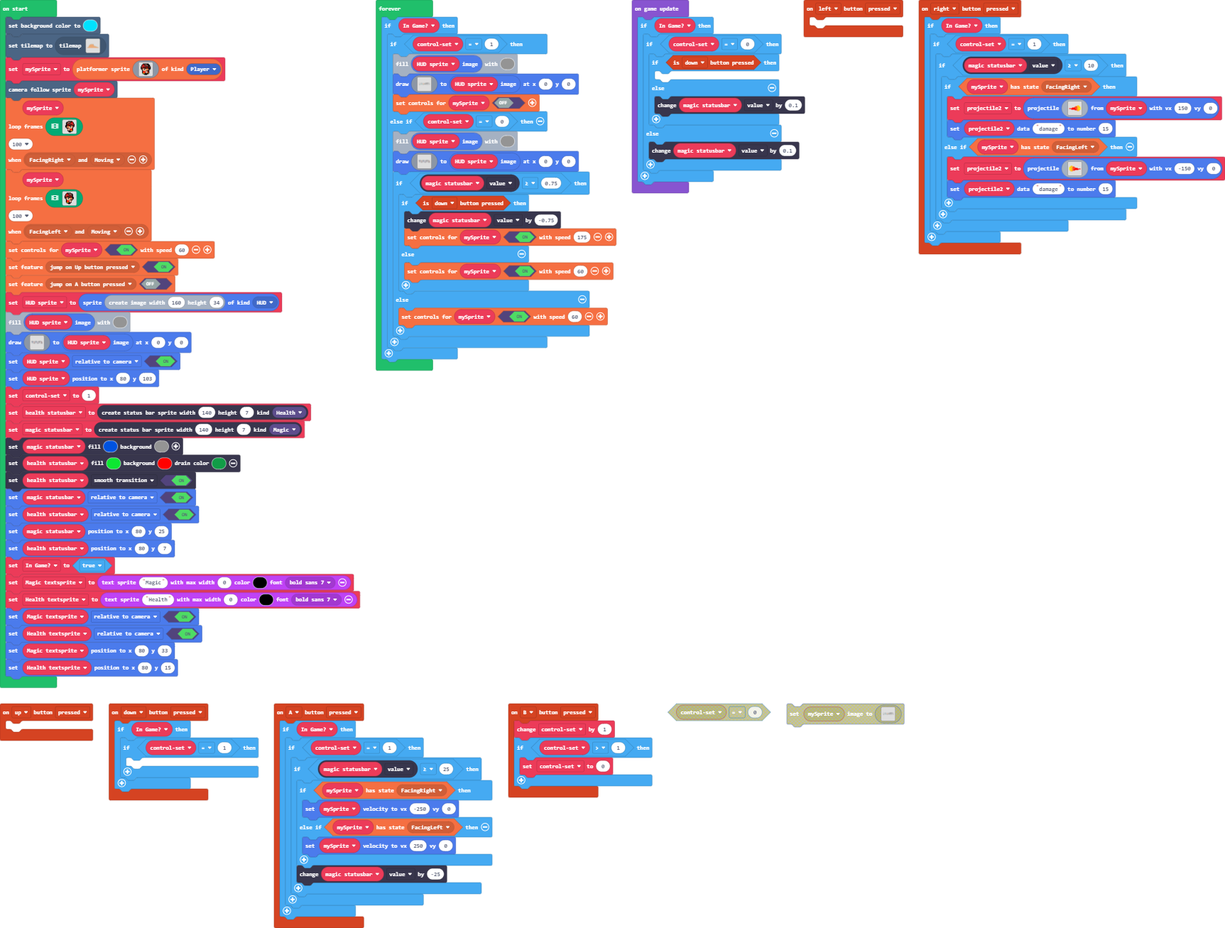
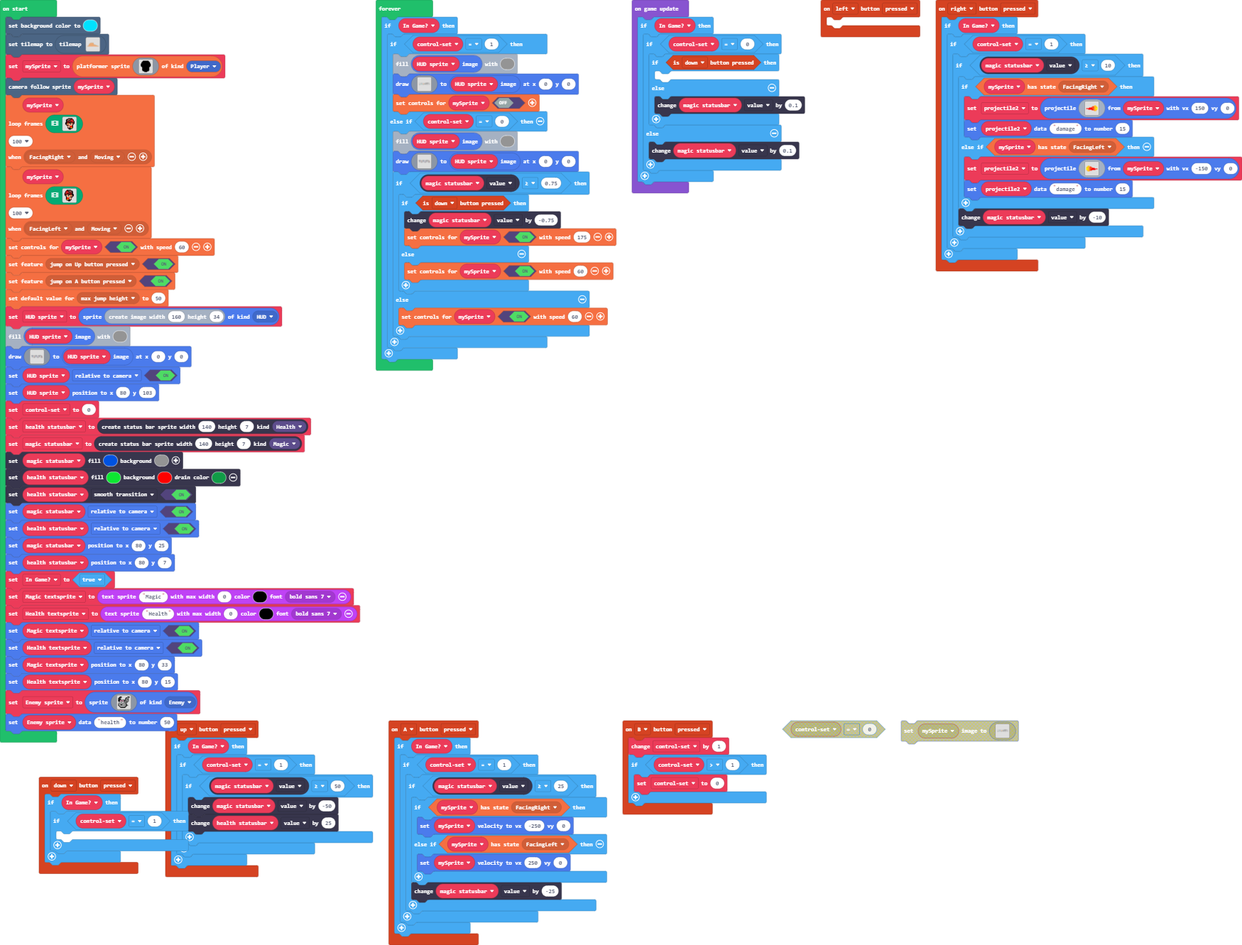
started working on the healing mechanic

Changed region(s): [[0.0, 0.0, 0.8296, 1.0], [0.2765, 0.0, 0.6759, 0.3979], [0.6452, 0.0, 1.0, 0.306]]

diff --git a/tilemap.g.ts b/tilemap.g.ts
@@ -24,8 +24,27 @@ namespace myTiles {
 2 2 2 2 2 2 2 2 2 2 2 2 2 2 2 2 
 2 2 2 2 2 2 2 2 2 2 2 2 2 2 2 2 
 `, [myTiles.transparency16,grafxkid.springGroundTop,grafxkid.springGround,grafxkid.springGroundTopRight,grafxkid.springGroundTopLeft,grafxkid.springGroundInnerBottomRight,grafxkid.springGroundInnerBottomLeft,grafxkid.springGroundLeft,grafxkid.springGroundRight], TileScale.Sixteen);
+            case "level3":
+            case "level3":return tiles.createTilemap(hex`1000100000000000000000000000000000000000000000000000000000000000000000000000000000000000000000000000000000000000000000000000000000000000000000000000000000000000000000000000000000000000000000000000000000000000000000000000000000000000000000000000000000000000000000000000000000000000000000000000000000000000000000000000000000000000000000000000000000000000000000000000000000000000000000000000000000000000000000000000000000000000000000000000000000000000000000000000000000000000000000000000000000000000000000000000000000000000`, img`
+. . . . . . . . . . . . . . . . 
+. . . . . . . . . . . . . . . . 
+. . . . . . . . . . . . . . . . 
+. . . . . . . . . . . . . . . . 
+. . . . . . . . . . . . . . . . 
+. . . . . . . . . . . . . . . . 
+. . . . . . . . . . . . . . . . 
+. . . . . . . . . . . . . . . . 
+. . . . . . . . . . . . . . . . 
+. . . . . . . . . . . . . . . . 
+. . . . . . . . . . . . . . . . 
+. . . . . . . . . . . . . . . . 
+. . . . . . . . . . . . . . . . 
+. . . . . . . . . . . . . . . . 
+. . . . . . . . . . . . . . . . 
+. . . . . . . . . . . . . . . . 
+`, [myTiles.transparency16], TileScale.Sixteen);
             case "level":
-            case "level1":return tiles.createTilemap(hex`78003000000000000000000000000000000000000000000000000000000000000000000000000000000000000000000000000000000000000000000000000000000000000000000000000000000000000000000000000000000000000000000000000000000000000000000000000000000000000000000000000000000000000000000000000000000000000000000000000000000000000000000000000000000000000000000000000000000000000000000000000000000000000000000000000000000000000000000000000000000000000000000000000000000000000000000000000000000000000000000000000000000000000000000000000000000000000000000000000000000000000000000000000000000000000000000000000000000000000000000000000000000000000000000000000000000000000000000000000000000000000000000000000000000000000000000000000000000000000000000000000000000000000000000000000000000000000000000000000000000000000000000000000000000000000000000000000000000000000000000000000000000000000000000000000000000000000000000000000000000000000000000000000000000000000000000000000000000000000000000000000000000000000000000000000000000000000000000000000000000000000000000000000000000000000000000000000000000000000000000000000000000000000000000000000000000000000000000000000000000000000000000000000000000000000000000000000000000000000000000000000000000000000000000000000000000000000000000000000000000000000000000000000000000000000000000000000000000000000000000000000000000000000000000000000000000000000000000000000000000000000000000000000000000000000000000000000000000000000000000000000000000000000000000000000000000000000000000000000000000000000000000000000000000000000000000000000000000000000000000000000000000000000000000000000000000000000000000000000000000000000000000000000000000000000000000000000000000000000000000000000000000000000000000000000000000000000000000000000000000000000000000000000000000000000000000000000000000000000000000000000000000000000000000000000000000000000000000000000000000000000000000000000000000000000000000000000000000000000000000000000000000000000000000000000000000000000000000000000000000000000000000000000000000000000000000000000000000000000000000000000000000000000000000000000000000000000000000000000000000000000000000000000000000000000000000000000000000000000000000000000000000000000000000000000000000000000000000000000000000000000000000000000000000000000000000000000000000000000000000000000000000000000000000000000000000000000000000000000000000000000000000000000000000000000000000000000000000000000000000000000000000000000000000000000000000000000000000000000000000000000000000000000003010101010101010101010101010101010101010101010101010101010106000000000000000000000000000000000000000000000000000000000000000000000000000000000000000000000000000000000000000000000000000000000000000000000000000000000000000000000000000000000308020202020202020202020202020202020202020202020202020202020207060000000000000000000000000000000000000000000000000000000000000000000000000000000000000000000000000000000000000000000000000000000000000000000000000000000000000000000000000003010802020202020202020202020202020202020202020202020202020202020202050000000000000000000000000000000000000000000000000000000000000000000000000000000000000000000000000000000000000000000000000000000000000000000000000000000000000000000000000308020202020202020202020202020202020202020202020202020202020202020202050000000000000000000000000000000000000000000000000000000000000000000000000000000000000000000000000000000000000000000000000000000000000000000000000000000000000000000000030802020202020202020202020202020202020202020202020202020202020202020202050000000000000000000000000000000000000000000000000000000000000000000000000000000000000000000000000000000000000000000000000000000000000000000000000000000000000000000003080202020202020202020202020202020202020202020202020202020202020202020202070600000000000000000000000000000000000000000000000000000000000000000000000000000000000000000000000000000000000000000000000000000000000000000000000000000000000000030108020202020202020202020202020202020202020202020202020202020202020202020202020500000000000000000000000000000000000000000000000000000000000000000000000000000000000000000000000000000000000000000000000000000000000000000000000000000000000003080202020202020202020202020202020202020202020202020202020202020202020202020202020500000000000000000000000000000000000000000000000000000000000000000000000000000000000000000000000000000000000000000000000000000000000000000000000000000000000308020202020202020202020202020202020202020202020202020202020202020202020202020202020500000000000000000000000000000000000000000000000000000000000000000000000000000000000000000000000000000000000000000000000000000000000000000000000000000003010802020202020202020202020202020202020202020202020202020202020202020202020202020202020706000000000000000000000000000000000000000000000000000000000000000000000000000000000000000000000000000000000000000000000000000000000000000000000000000308020202020202020202020202020202020202020202020202020202020202020202020202020202020202020205000000000000000000000000000000000000000000000000000000000000000000000000000000000000000000000000000000000000000000000000000000000000000000000000030802020202020202020202020202020202020202020202020202020202020202020202020202020202020202020205000000000000000000000000000000000000000000000000000000000000000000000000000000000000000000000000000000000000000000000000000000000000000000000003080202020202020202020202020202020202020202020202020202020202020202020202020202020202020202020207060000000000000000000000000000000000000000000000000000000000000000000000000000000000000000000000000000000000000000000000000000000000000000000004020202020202020202020202020202020202020202020202020202020202020202020202020202020202020202020202050000000000000000000000000000000000000000000000000000000000000000000000000000000000000000000000000000000000000000000000000000000000000000000308020202020202020202020202020202020202020202020202020202020202020202020202020202020202020202020202050000000000000000000000000000000000000000000000000000000000000000000000000000000000000000000000000000000000000000000000000000000000000000000402020202020202020202020202020202020202020202020202020202020202020202020202020202020202020202020202050000000000000000000000000000000000000000000000000000000000000000000000000000000000000000000000000000000000000000000000000000000000000000000402020202020202020202020202020202020202020202020202020202020202020202020202020202020202020202020202070600000000000000000000000000000000000000000000000000000000000000000000000000000000000000000000000000000000000000000000000000000000000000030802020202020202020202020202020202020202020202020202020202020202020202020202020202020202020202020202020500000000000000000000000000000000000000000000000000000000000000000000000000000000000000000000000000000000000000000000000000000000000000040202020202020202020202020202020202020202020202020202020202020202020202020202020202020202020202020202020500000000000000000000000000000000000000000000000000000000000000000000000000000000000000000000000000000000000000000000000000000000000003080202020202020202020202020202020202020202020202020202020202020202020202020202020202020202020202020202020500000000000000000000000000000000000000000000000000000000000000000000000000000000000000000000000000000000000000000000000000000000000004020202020202020202020202020202020202020202020202020202020202020202020202020202020202020202020202020202020701010101010101010101010106000000000000000000000000000000000000000000000000000000000000000000000000000000000000000000000000000000000308020202020202020202020202020202020202020202020202020202020202020202020202020202020202020202020202020202020202020202020202020202020207010600000000000000000000000000000000000000000000000000000000000000000000000000000000000000000000000000000402020202020202020202020202020202020202020202020202020202020202020202020202020202020202020202020202020202020202020202020202020202020202020701060000000000000000000000000000000000000000000000000000000000000000000000000000000000000000000000000402020202020202020202020202020202020202020202020202020202020202020202020202020202020202020202020202020202020202020202020202020202020202020202070101060000000000000000000000000000000000000000000000000000000000000000000000000000000000000000030802020202020202020202020202020202020202020202020202020202020202020202020202020202020202020202020202020202020202020202020202020202020202020202020202070106000000000000000000000000000000000000000000000000000000000000000000000000000000000000040202020202020202020202020202020202020202020202020202020202020202020202020202020202020202020202020202020202020202020202020202020202020202020202020202020207010106000000000000000000000000000000000000000000000000000000000000000000000000000003080202020202020202020202020202020202020202020202020202020202020202020202020202020202020202020202020202020202020202020202020202020202020202020202020202020202020207010600000000000000000000000000000000000000000000000000000000000000000000000004020202020202020202020202020202020202020202020202020202020202020202020202020202020202020202020202020202020202020202020202020202020202020202020202020202020202020202020701060000000000000000000000000000000000000000000000000000000000000000000308020202020202020202020202020202020202020202020202020202020202020202020202020202020202020202020202020202020202020202020202020202020202020202020202020202020202020202020202070101060000000000000000000000000000000000000000000000000000000000000402020202020202020202020202020202020202020202020202020202020202020202020202020202020202020202020202020202020202020202020202020202020202020202020202020202020202020202020202020202070106000000000000000000000000000000000000000000000000000000000402020202020202020202020202020202020202020202020202020202020202020202020202020202020202020202020202020202020202020202020202020202020202020202020202020202020202020202020202020202020207010106000000000000000000000000000000000000000000000000030802020202020202020202020202020202020202020202020202020202020202020202020202020202020202020202020202020202020202020202020202020202020202020202020202020202020202020202020202020202020202020207010600000000000000000000010101010101010101010101080202020202020202020202020202020202020202020202020202020202020202020202020202020202020202020202020202020202020202020202020202020202020202020202020202020202020202020202020202020202020202020202020701010101010101010101020202020202020202020202020202020202020202020202020202020202020202020202020202020202020202020202020202020202020202020202020202020202020202020202020202020202020202020202020202020202020202020202020202020202020202020202020202020202020202020202020202020202020202020202020202020202020202020202020202020202020202020202020202020202020202020202020202020202020202020202020202020202020202020202020202020202020202020202020202020202020202020202020202020202020202020202020202020202020202020202020202020202020202020202020202020202020202020202020202020202020202020202020202020202020202020202020202020202020202020202020202020202020202020202020202020202020202020202020202020202020202020202020202020202020202020202020202020202020202020202020202020202020202020202020202020202020202020202020202020202020202020202020202020202020202020202020202020202020202020202020202020202020202020202020202020202020202020202020202020202020202020202020202020202020202020202020202020202020202020202020202020202020202020202020202020202020202020202020202020202020202020202020202020202020202020202020202020202020202020202020202020202020202020202020202020202020202020202020202020202020202020202020202020202020202020202020202020202020202020202`, img`
+            case "level1":return tiles.createTilemap(hex`78003000000000000000000000000000000000000000000000000000000000000000000000000000000000000000000000000000000000000000000000000000000000000000000000000000000000000000000000000000000000000000000000000000000000000000000000000000000000000000000000000000000000000000000000000000000000000000000000000000000000000000000000000000000000000000000000000000000000000000000000000000000000000000000000000000000000000000000000000000000000000000000000000000000000000000000000000000000000000000000000000000000000000000000000000000000000000000000000000000000000000000000000000000000000000000000000000000000000000000000000000000000000000000000000000000000000000000000000000000000000000000000000000000000000000000000000000000000000000000000000000000000000000000000000000000000000000000000000000000000000000000000000000000000000000000000000000000000000000000000000000000000000000000000000000000000000000000000000000000000000000000000000000000000000000000000000000000000000000000000000000000000000000000000000000000000000000000000000000000000000000000000000000000000000000000000000000000000000000000000000000000000000000000000000000000000000000000000000000000000000000000000000000000000000000000000000000000000000000000000000000000000000000000000000000000000000000000000000000000000000000000000000000000000000000000000000000000000000000000000000000000000000000000000000000000000000000000000000000000000000000000000000000000000000000000000000000000000000000000000000000000000000000000000000000000000000000000000000000000000000000000000000000000000000000000000000000000000000000000000000000000000000000000000000000000000000000000000000000000000000000000000000000000000000000000000000000000000000000000000000000000000000000000000000000000000000000000000000000000000000000000000000000000000000000000000000000000000000000000000000000000000000000000000000000000000000000000000000000000000000000000000000000000000000000000000000000000000000000000000000000000000000000000000000000000000000000000000000000000000000000000000000000000000000000000000000000000000000000000000000000000000000000000000000000000000000000000000000000000000000000000000000000000000000000000000000000000000000000000000000000000000000000000000000000000000000000000000000000000000000000000000000000000000000000000000000000000000000000000000000000000000000000000000000000000000000000000000000000000000000000000000000000000000000000000000000000000000000000000000000000000000000000000000000000000000000000000000000000000000000000000000000000003010101010101010101010101010101010101010101010101010101010600000000000000000000000000000000000000000000000000000000000000000000000000000000000000000000000000000000000000000000000000000000000000000000000000000000000000000000000000000000000308020202020202020202020202020202020202020202020202020202020500000000000000000000000000000000000000000000000000000000000000000000000000000000000000000000000000000000000000000000000000000000000000000000000000000000000000000000000000000003010802020202020202020202020202020202020202020202020202020202020706000000000000000000000000000000000000000000000000000000000000000000000000000000000000000000000000000000000000000000000000000000000000000000000000000000000000000000000000000308020202020202020202020202020202020202020202020202020202020202020205000000000000000000000000000000000000000000000000000000000000000000000000000000000000000000000000000000000000000000000000000000000000000000000000000000000000000000000000030802020202020202020202020202020202020202020202020202020202020202020205000000000000000000000000000000000000000000000000000000000000000000000000000000000000000000000000000000000000000000000000000000000000000000000000000000000000000000000003080202020202020202020202020202020202020202020202020202020202020202020207060000000000000000000000000000000000000000000000000000000000000000000000000000000000000000000000000000000000000000000000000000000000000000000000000000000000000000030108020202020202020202020202020202020202020202020202020202020202020202020202050000000000000000000000000000000000000000000000000000000000000000000000000000000000000000000000000000000000000000000000000000000000000000000000000000000000000003080202020202020202020202020202020202020202020202020202020202020202020202020202050000000000000000000000000000000000000000000000000000000000000000000000000000000000000000000000000000000000000000000000000000000000000000000000000000000000000308020202020202020202020202020202020202020202020202020202020202020202020202020202070600000000000000000000000000000000000000000000000000000000000000000000000000000000000000000000000000000000000000000000000000000000000000000000000000000003010802020202020202020202020202020202020202020202020202020202020202020202020202020202020500000000000000000000000000000000000000000000000000000000000000000000000000000000000000000000000000000000000000000000000000000000000000000000000000000308020202020202020202020202020202020202020202020202020202020202020202020202020202020202020500000000000000000000000000000000000000000000000000000000000000000000000000000000000000000000000000000000000000000000000000000000000000000000000000030802020202020202020202020202020202020202020202020202020202020202020202020202020202020202020706000000000000000000000000000000000000000000000000000000000000000000000000000000000000000000000000000000000000000000000000000000000000000000000003080202020202020202020202020202020202020202020202020202020202020202020202020202020202020202020205000000000000000000000000000000000000000000000000000000000000000000000000000000000000000000000000000000000000000000000000000000000000000000000004020202020202020202020202020202020202020202020202020202020202020202020202020202020202020202020205000000000000000000000000000000000000000000000000000000000000000000000000000000000000000000000000000000000000000000000000000000000000000000000308020202020202020202020202020202020202020202020202020202020202020202020202020202020202020202020207060000000000000000000000000000000000000000000000000000000000000000000000000000000000000000000000000000000000000000000000000000000000000000000402020202020202020202020202020202020202020202020202020202020202020202020202020202020202020202020202050000000000000000000000000000000000000000000000000000000000000000000000000000000000000000000000000000000000000000000000000000000000000000000402020202020202020202020202020202020202020202020202020202020202020202020202020202020202020202020202050000000000000000000000000000000000000000000000000000000000000000000000000000000000000000000000000000000000000000000000000000000000000000030802020202020202020202020202020202020202020202020202020202020202020202020202020202020202020202020202070600000000000000000000000000000000000000000000000000000000000000000000000000000000000000000000000000000000000000000000000000000000000000040202020202020202020202020202020202020202020202020202020202020202020202020202020202020202020202020202020500000000000000000000000000000000000000000000000000000000000000000000000000000000000000000000000000000000000000000000000000000000000003080202020202020202020202020202020202020202020202020202020202020202020202020202020202020202020202020202020500000000000000000000000000000000000000000000000000000000000000000000000000000000000000000000000000000000000000000000000000000000000004020202020202020202020202020202020202020202020202020202020202020202020202020202020202020202020202020202020701010101010101010101010106000000000000000000000000000000000000000000000000000000000000000000000000000000000000000000000000000000000308020202020202020202020202020202020202020202020202020202020202020202020202020202020202020202020202020202020202020202020202020202020207010600000000000000000000000000000000000000000000000000000000000000000000000000000000000000000000000000000402020202020202020202020202020202020202020202020202020202020202020202020202020202020202020202020202020202020202020202020202020202020202020701060000000000000000000000000000000000000000000000000000000000000000000000000000000000000000000000000402020202020202020202020202020202020202020202020202020202020202020202020202020202020202020202020202020202020202020202020202020202020202020202070101060000000000000000000000000000000000000000000000000000000000000000000000000000000000000000030802020202020202020202020202020202020202020202020202020202020202020202020202020202020202020202020202020202020202020202020202020202020202020202020202070106000000000000000000000000000000000000000000000000000000000000000000000000000000000000040202020202020202020202020202020202020202020202020202020202020202020202020202020202020202020202020202020202020202020202020202020202020202020202020202020207010106000000000000000000000000000000000000000000000000000000000000000000000000000003080202020202020202020202020202020202020202020202020202020202020202020202020202020202020202020202020202020202020202020202020202020202020202020202020202020202020207010600000000000000000000000000000000000000000000000000000000000000000000000004020202020202020202020202020202020202020202020202020202020202020202020202020202020202020202020202020202020202020202020202020202020202020202020202020202020202020202020701060000000000000000000000000000000000000000000000000000000000000000000308020202020202020202020202020202020202020202020202020202020202020202020202020202020202020202020202020202020202020202020202020202020202020202020202020202020202020202020202070101060000000000000000000000000000000000000000000000000000000000000402020202020202020202020202020202020202020202020202020202020202020202020202020202020202020202020202020202020202020202020202020202020202020202020202020202020202020202020202020202070106000000000000000000000000000000000000000000000000000000000402020202020202020202020202020202020202020202020202020202020202020202020202020202020202020202020202020202020202020202020202020202020202020202020202020202020202020202020202020202020207010106000000000000000000000000000000000000000000000000030802020202020202020202020202020202020202020202020202020202020202020202020202020202020202020202020202020202020202020202020202020202020202020202020202020202020202020202020202020202020202020207010600000000000000000000010101010101010101010101080202020202020202020202020202020202020202020202020202020202020202020202020202020202020202020202020202020202020202020202020202020202020202020202020202020202020202020202020202020202020202020202020701010101010101010101020202020202020202020202020202020202020202020202020202020202020202020202020202020202020202020202020202020202020202020202020202020202020202020202020202020202020202020202020202020202020202020202020202020202020202020202020202020202020202020202020202020202020202020202020202020202020202020202020202020202020202020202020202020202020202020202020202020202020202020202020202020202020202020202020202020202020202020202020202020202020202020202020202020202020202020202020202020202020202020202020202020202020202020202020202020202020202020202020202020202020202020202020202020202020202020202020202020202020202020202020202020202020202020202020202020202020202020202020202020202020202020202020202020202020202020202020202020202020202020202020202020202020202020202020202020202020202020202020202020202020202020202020202020202020202020202020202020202020202020202020202020202020202020202020202020202020202020202020202020202020202020202020202020202020202020202020202020202020202020202020202020202020202020202020202020202020202020202020202020202020202020202020202020202020202020202020202020202020202020202020202020202020202020202020202020202020202020202020202020202020202020202020202020202020202020202020202020202020202020202`, img`
 ........................................................................................................................
 ........................................................................................................................
 ........................................................................................................................
@@ -36,23 +55,23 @@ namespace myTiles {
 ........................................................................................................................
 ........................................................................................................................
 ........................................................................................................................
-...................................2222222222222222222222222222222......................................................
-..................................222222222222222222222222222222222.....................................................
-................................22222222222222222222222222222222222.....................................................
-...............................222222222222222222222222222222222222.....................................................
-..............................2222222222222222222222222222222222222.....................................................
-.............................222222222222222222222222222222222222222....................................................
-...........................22222222222222222222222222222222222222222....................................................
-..........................222222222222222222222222222222222222222222....................................................
+...................................222222222222222222222222222222.......................................................
+..................................2222222222222222222222222222222.......................................................
+................................2222222222222222222222222222222222......................................................
+...............................22222222222222222222222222222222222......................................................
+..............................222222222222222222222222222222222222......................................................
+.............................22222222222222222222222222222222222222.....................................................
+...........................2222222222222222222222222222222222222222.....................................................
+..........................22222222222222222222222222222222222222222.....................................................
 .........................2222222222222222222222222222222222222222222....................................................
-.......................2222222222222222222222222222222222222222222222...................................................
-......................22222222222222222222222222222222222222222222222...................................................
+.......................222222222222222222222222222222222222222222222....................................................
+......................2222222222222222222222222222222222222222222222....................................................
 .....................222222222222222222222222222222222222222222222222...................................................
-....................22222222222222222222222222222222222222222222222222..................................................
-....................22222222222222222222222222222222222222222222222222..................................................
+....................2222222222222222222222222222222222222222222222222...................................................
+....................2222222222222222222222222222222222222222222222222...................................................
 ...................222222222222222222222222222222222222222222222222222..................................................
 ...................222222222222222222222222222222222222222222222222222..................................................
-...................2222222222222222222222222222222222222222222222222222.................................................
+...................222222222222222222222222222222222222222222222222222..................................................
 ..................22222222222222222222222222222222222222222222222222222.................................................
 ..................22222222222222222222222222222222222222222222222222222.................................................
 .................222222222222222222222222222222222222222222222222222222.................................................

diff --git a/main.ts b/main.ts
@@ -2,7 +2,14 @@ namespace SpriteKind {
     export const HUD = SpriteKind.create()
 }
 controller.up.onEvent(ControllerButtonEvent.Pressed, function () {
-	
+    if (In_Game) {
+        if (controlset == 1) {
+            if (magic_statusbar.value >= 50) {
+                magic_statusbar.value += -50
+                health_statusbar.value += 25
+            }
+        }
+    }
 })
 controller.B.onEvent(ControllerButtonEvent.Pressed, function () {
     controlset += 1
@@ -38,6 +45,7 @@ controller.right.onEvent(ControllerButtonEvent.Pressed, function () {
                     projectile2 = sprites.createProjectileFromSprite(assets.image`myImage0`, mySprite, -150, 0)
                     sprites.setDataNumber(projectile2, "damage", 15)
                 }
+                magic_statusbar.value += -10
             }
         }
     }
@@ -52,25 +60,26 @@ controller.down.onEvent(ControllerButtonEvent.Pressed, function () {
 let projectile2: Sprite = null
 let In_Game = false
 let magic_statusbar: StatusBarSprite = null
+let health_statusbar: StatusBarSprite = null
 let controlset = 0
 let mySprite: platformer.PlatformerSprite = null
 scene.setBackgroundColor(9)
 tiles.setCurrentTilemap(tilemap`level`)
 mySprite = platformer.create(img`
     . . . . f f f f f f f f . . . . 
-    . . . f 2 f e e e e f f f . . . 
-    . . f 2 2 2 f e e e e f f f . . 
-    . . f e e e e f f e e e f f . . 
-    . f e 2 2 2 2 e e f f f f e f . 
-    . f 2 e f f f f 2 2 2 e f 2 f . 
-    . f f f e e e f f f f f f f f . 
-    . f e e 4 4 f b e 4 4 e f f f . 
-    . . f e d d f 1 4 d 4 e e f . . 
-    . . . f d d d d 4 e e e f . . . 
-    . . . f e 4 4 4 e e f f f . . . 
-    . . . f 2 2 2 e d d 4 2 f . . . 
-    . . . f 2 2 2 e d d e 2 f . . . 
-    . . . f 5 5 4 f e e f 5 f . . . 
+    . . . f f f f f f f f f f . . . 
+    . . f f f f f f f f f f f f . . 
+    . . f f f f f f f f f f f f . . 
+    . f f f f f f f f f f f f f f . 
+    . f f f f f f f f f f f f f f . 
+    . f f f f f f f f f f f f f f . 
+    . f f f f f f f f f f f f f f . 
+    . . f f f f f f f f f f f f . . 
+    . . . f f f f f f f f f f . . . 
+    . . . f f f f f f f f f f . . . 
+    . . . f f f f f f f f f f . . . 
+    . . . f f f f f f f f f f . . . 
+    . . . f f f f f f f f f f . . . 
     . . . . f f f f f f f f . . . . 
     . . . . . . f f f f . . . . . . 
     `, SpriteKind.Player)
@@ -225,14 +234,15 @@ platformer.rule(platformer.PlatformerSpriteState.FacingLeft, platformer.Platform
 )
 platformer.moveSprite(mySprite, true, 60)
 platformer.setFeatureEnabled(platformer.PlatformerFeatures.JumpOnUpPressed, true)
-platformer.setFeatureEnabled(platformer.PlatformerFeatures.JumpOnAPressed, false)
+platformer.setFeatureEnabled(platformer.PlatformerFeatures.JumpOnAPressed, true)
+platformer.setConstantDefault(platformer.PlatformerConstant.MaxJumpHeight, 50)
 let HUD_sprite = sprites.create(image.create(160, 34), SpriteKind.HUD)
 HUD_sprite.image.fill(11)
 spriteutils.drawTransparentImage(assets.image`Control HUD MOVE`, HUD_sprite.image, 0, 0)
 HUD_sprite.setFlag(SpriteFlag.RelativeToCamera, true)
 HUD_sprite.setPosition(80, 103)
-controlset = 1
-let health_statusbar = statusbars.create(140, 7, StatusBarKind.Health)
+controlset = 0
+health_statusbar = statusbars.create(140, 7, StatusBarKind.Health)
 magic_statusbar = statusbars.create(140, 7, StatusBarKind.Magic)
 magic_statusbar.setColor(8, 11)
 health_statusbar.setColor(7, 2, 6)
@@ -248,6 +258,25 @@ Magic_textsprite.setFlag(SpriteFlag.RelativeToCamera, true)
 Health_textsprite.setFlag(SpriteFlag.RelativeToCamera, true)
 Magic_textsprite.setPosition(80, 33)
 Health_textsprite.setPosition(80, 15)
+let Enemy_sprite = sprites.create(img`
+    . . f f f . . . . . . . . f f f 
+    . f f c c . . . . . . f c b b c 
+    f f c c . . . . . . f c b b c . 
+    f c f c . . . . . . f b c c c . 
+    f f f c c . c c . f c b b c c . 
+    f f c 3 c c 3 c c f b c b b c . 
+    f f b 3 b c 3 b c f b c c b c . 
+    . c b b b b b b c b b c c c . . 
+    . c 1 b b b 1 b b c c c c . . . 
+    c b b b b b b b b b c c . . . . 
+    c b c b b b c b b b b f . . . . 
+    f b 1 f f f 1 b b b b f c . . . 
+    f b b b b b b b b b b f c c . . 
+    . f b b b b b b b b c f . . . . 
+    . . f b b b b b b c f . . . . . 
+    . . . f f f f f f f . . . . . . 
+    `, SpriteKind.Enemy)
+sprites.setDataNumber(Enemy_sprite, "health", 50)
 game.onUpdate(function () {
     if (In_Game) {
         if (controlset == 0) {
